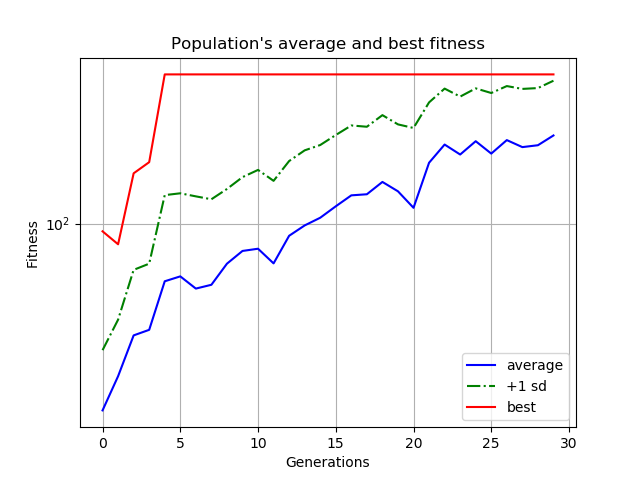
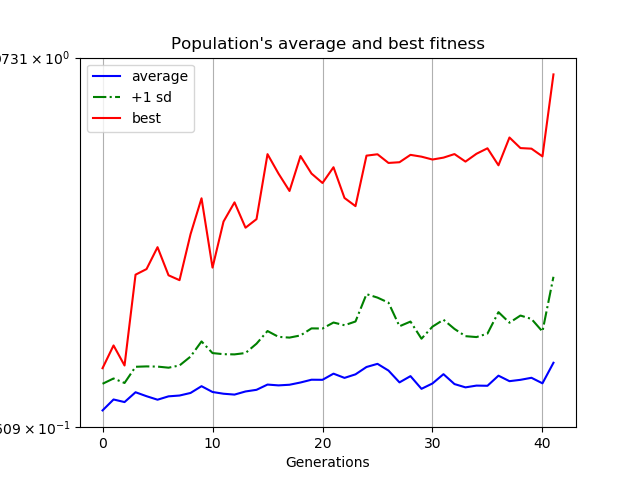
After tweaking the NEAT config file and after finding a suitable fitness function to train the genomes on, the MountainCar-v0 has a proper solution.

diff --git a/MountainCar_v0/find-genome.py b/MountainCar_v0/find-genome.py
@@ -12,7 +12,7 @@ import gym
 
 
 
-runs_per_net = 1
+runs_per_net = 4
 # simulation_seconds = 60.0
 
 
@@ -24,21 +24,29 @@ def eval_genome(genome, config):
 
     # Run the given simulation for up to num_steps time steps.
     for runs in range(runs_per_net):
-        env = gym.make("CartPole-v1") # make new gym environment for every new agent in the epoch 
+        env = gym.make("MountainCar-v0") # make new gym environment for every new agent in the epoch 
 
         observation = env.reset() # reset the agents observations in the newly-minted environment
 
-        fitness = 0.0
-        done = False
-        while not done:
+        min_obs = -0.5
+        max_obs = -0.5
 
-            action = np.argmax(net.activate(observation))
+        done = False
+
+        while not done:
+            determinations = net.activate(observation) # returns r squared probabilities in an array of the 3 thrust actions
+
+            action = np.argmax(determinations) # returns index of action most wanted, and it equals the actions itself due to README...i.e. left = 0, nothing = 1, right = 2 and we want to end up towards the right hand side at finishline
 
             observation, reward, done, info = env.step(action)
 
-            fitness += reward # ???? don't we have to re-zero this at some point?
 
-        fitnesses.append(fitness)
+            max_obs = np.max([max_obs, observation[0]]) # find maximum observed distance of all time
+            min_obs = np.min([min_obs, observation[0]]) # find minimum observed distance of all time
+            
+            fitness = max_obs - min_obs
+
+        fitnesses.append(fitness) # if the same genome does more than one trial, this fxn will average them and return them as representative of the genomes fitness 
 
     # The genome's fitness is its average performance across all runs
     return np.mean(fitnesses)

diff --git a/MountainCar_v0/neat-solution.py b/MountainCar_v0/neat-solution.py
@@ -19,7 +19,7 @@ config = neat.Config(neat.DefaultGenome, neat.DefaultReproduction, neat.DefaultS
 
 net = neat.nn.FeedForwardNetwork.create(c, config)
 
-env = gym.make('CartPole-v1')
+env = gym.make('MountainCar-v0')
 observation = env. reset()
 
 done= False
